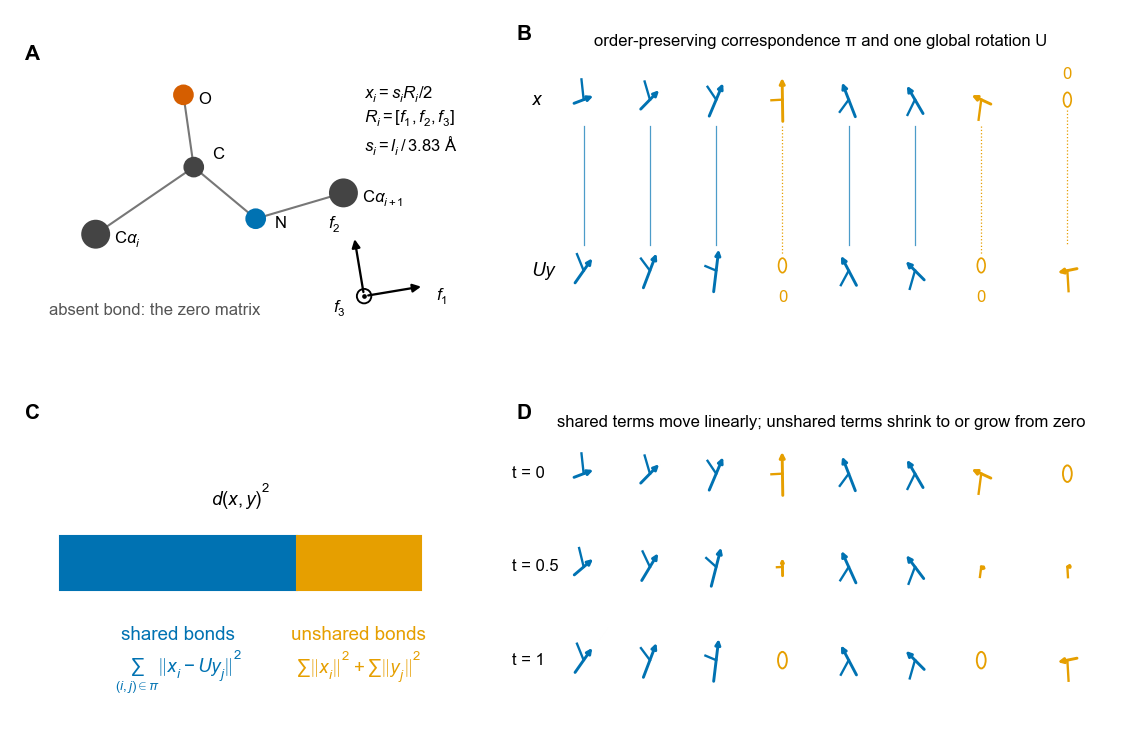
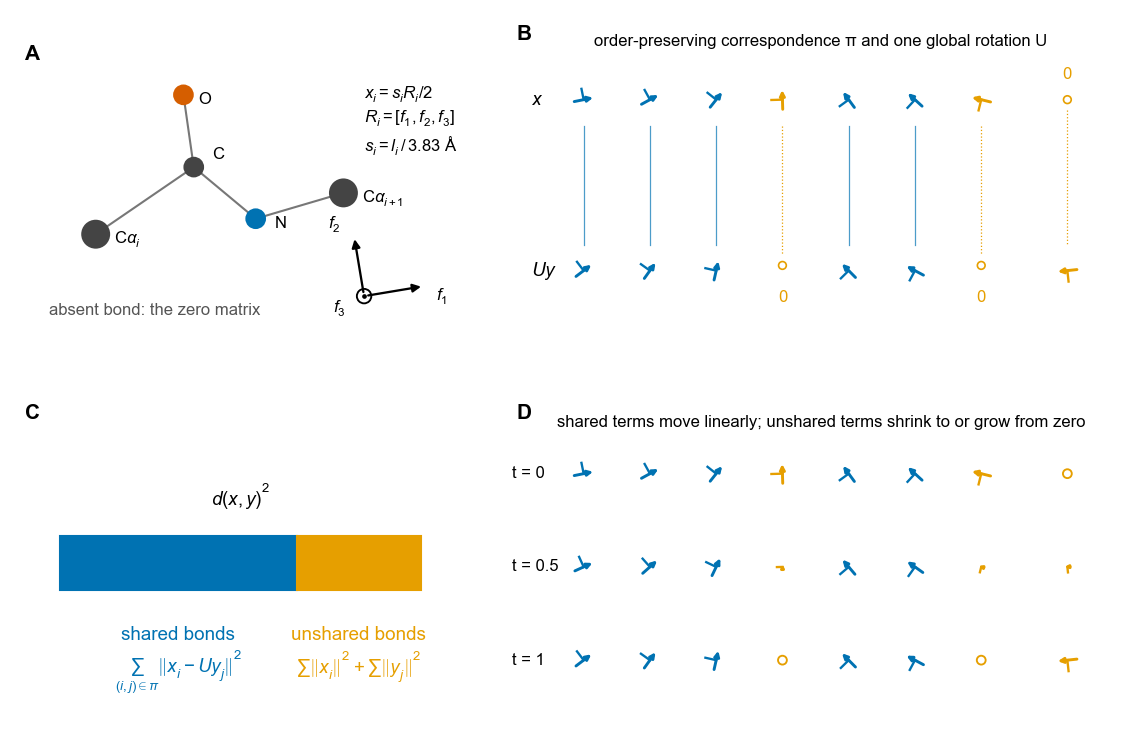
Docs: README Fig 1 caption = the paper's (and the redrawn figure); manuscript terms in docstrings (normalized distance D̂, intersection of near-optimal alignments, factorial comparison); κ = 1 inside the crossing band; tie ranks; rulers: pseudometric and its metric conditions; no cis distance figure

diff --git a/framedchain/ensemble.py b/framedchain/ensemble.py
@@ -4,11 +4,13 @@ For runs (independent replicates) P_1..P_r and Q_1..Q_s, C = mean distance over 
 distance over pairs of different runs on the same side.
     Δ² = 2C − B_P − B_Q  (= cross energy distance − (floor_P + floor_Q)/2; within-run mean distances cancel)
 Because the energy distance is a symmetric bilinear form in the difference of measures, Δ² is an unbiased estimator of
-the energy distance between the central distributions when runs are independent, whatever the negative type of the
-ground distance (D is not of negative type). What is lost is only the guarantee ℰ_D ≥ 0; on real samples this is
-diagnosed by the positive-eigenvalue fraction η₊ of J D J (eta_plus).
+its population counterpart, defined by the expected frame distribution of one run on each side, when runs are
+independent and identically distributed, whatever the negative type of the ground distance (D is not of negative
+type). What is lost is only the guarantee ℰ_D ≥ 0; on real samples this is diagnosed by the positive-eigenvalue
+fraction η₊ of J D J (eta_plus).
     w̄ = (B_P + B_Q)/2,  ratio = √((C/w̄)² − 1) = √((Δ²/(2w̄) + 1)² − 1)  (the signal-to-noise that follows exactly from cross ÷ within distances)
-ratio = 1 separates the near and far regimes (Δ²/√n = 2(√2 − 1) w̄/√n). The main statistic is Δ²/√n̄.
+ratio = 1 lies between the near and far limits, inside the crossing band of the paper (near: ratio < 0.5; crossing:
+0.5–2; far: ratio > 2); there Δ²/√n = 2(√2 − 1) w̄/√n. The main statistic is Δ²/√n̄.
     Δμ²₂ = (C₂ − (B₂_P + B₂_Q)/2) / number of edges   (C₂, B₂ are means of squared distances; exponent-2 energy statistic, mean shift)
 In aligned (Euclidean) coordinates Δμ²₂ equals the mean shift between run means exactly (the spread terms cancel);
 over D it is the generalization.
@@ -55,7 +57,7 @@ def component_ratio(C, B_P, B_Q, dmu2, n_edges):
 
 
 def regime_boundary(wbar, n_edges):
-    """Δ²/√n at the boundary of the two regimes (ratio = 1): 2(√2 − 1) w̄/√n."""
+    """Δ²/√n at ratio = 1, between the near and far limits (inside the paper's crossing band 0.5–2): 2(√2 − 1) w̄/√n."""
     return float(2 * (np.sqrt(2) - 1) * wbar / np.sqrt(n_edges))
 
 
@@ -165,7 +167,7 @@ def edge_spread_profile(F, idx, iters=3):
 def dynamics_similarity(Fa, Fb, pairs, iters=3):
     """Dynamics similarity r_dyn of two protein ensembles on shared edges: Spearman rank correlation of the spread
     profiles on the paired shared edges pairs (k, 2). Shared edges are the matches of the optimal alignment between the
-    two mean points (π̄). Ties are not split in the ranks."""
+    two mean points (π̄). Tied values receive distinct ranks in sort order (no average ranks), as in the paper's code."""
     pairs = np.asarray(pairs, int).reshape(-1, 2)
     va = edge_spread_profile(Fa, pairs[:, 0], iters)
     vb = edge_spread_profile(Fb, pairs[:, 1], iters)

diff --git a/framedchain/rulers.py b/framedchain/rulers.py
@@ -1,9 +1,12 @@
-"""The ruler family: D_{w,ℓ} with a position term, and the TM-form distance D_TM at fixed d₀.
+"""The rulers module: the distance D_TM at fixed d₀ (the TM-align objective as an edit-distance metric, Theorem 2 of
+the paper) and D_{w,ℓ} (frame terms with a position term; not used in the paper).
 
-Common frame (the general lemma of the paper). If the features of terms a and the distance δ between them are
-invariant under the rigid motions G, the gap cost c is G-invariant, and c(a) ≤ δ(a, b) + c(b), then
+The general lemma of the paper. If the features of terms a and the distance δ between them are invariant under the
+rigid motions G, the gap cost c is G-invariant, and c(a) ≤ δ(a, b) + c(b), then
     D² = min over (order-preserving partial correspondence π, g ∈ G) of Σ_{(i,j)∈π} δ(a_i, g b_j)² + Σ_{unmatched} c²
-is a metric on the quotient (identifying insertion/removal of zero-cost terms and a common g).
+is a pseudometric on the quotient (identifying insertion/removal of zero-cost terms and a common g); it is a metric
+when, in addition, the gap cost vanishes only at the zero term and the minimum over G is attained (for D_TM the
+minimum over translations is attained because the score vanishes at infinite separation).
 
 D_{w,ℓ}. Feature of edge i: (w·x_i, p_i/ℓ) (x_i = s_i R_i/2, p_i the midpoint of the edge); δ is their Euclidean
 distance and c = w‖x‖.
@@ -15,7 +18,7 @@ f(0) = 0, hence a metric); c² = 1/2.
     1 − δ² = 1/(1 + r²) is the TM residue score, so D_TM² = (n + m)/2 − S_TM,  S_TM = max Σ_{(i,j)∈π} 1/(1 + r_ij²).
   At fixed d₀ it is a metric (the objective of TM-align = D_TM at fixed d₀). TM-score adds d₀ = d₀(L), division by a
   length and the 1 − S transform; the non-metric behavior of 1 − TM comes from the shorter-length normalization and the
-  1 − S transform (the TM factorial design of the paper).
+  1 − S transform (the factorial comparison of the paper).
 
 Computation. For a fixed pose (U, t) the correspondence is exact by dynamic programming. For a fixed correspondence
   D_{w,ℓ}: t is the difference of the centroids of the matched midpoints and U is exact from the SVD of the combined
@@ -330,7 +333,7 @@ def wl_cost(x, y, match, U, t, ell, w=1.0, p=None, q=None):
     return c + w * w * float((x[mi] ** 2).sum() + (y[mj] ** 2).sum())
 
 
-# Factorial design of the TM forms: (fixed d₀ / d₀(L)) × (no division / division by L̄ = (n + m)/2) × (square-root distance form / 1 − S form).
+# Factorial comparison of the TM forms: (fixed d₀ / d₀(L)) × (no division / division by L̄ = (n + m)/2) × (square-root distance form / 1 − S form).
 def tm_forms(S, n, m):
     """S_TM (computed at the given d₀) -> the four forms. At fixed d₀, 'sqrt_raw' (D_TM) and 'sqrt_norm' (D_TM/√L̄) are
     metrics (the theorem and the normalized metric of the paper); the linear forms 'lin_raw' and 'lin_norm' are not."""

diff --git a/framedchain/parts.py b/framedchain/parts.py
@@ -7,7 +7,7 @@ alignment breaks such a match: the gap part contains not only insertions and del
 in sequence and are rotated by more than 120° (gap part ≠ number of insertions).
 The split depends on the alignment, so when several alignments are nearly optimal their variation is reported separately.
 
-Mean normalization. D̂ = d / √(‖x‖² + ‖y‖²) is a metric at every length with values in [0, 1] (embedding in the
+Normalized distance. D̂ = d / √(‖x‖² + ‖y‖²) is a metric at every length with values in [0, 1] (embedding in the
 unit sphere of a Hilbert space).
 """
 import numpy as np
@@ -43,7 +43,7 @@ def split_sq_distance(x, y, alignment=None, **kw):
 
 
 def normalized_distance(x, y, d=None, **kw):
-    """Mean-normalized distance D̂ = d / √(‖x‖² + ‖y‖²) ∈ [0, 1]. Without d, the distance is computed (upper bound)."""
+    """Normalized distance D̂ = d / √(‖x‖² + ‖y‖²) ∈ [0, 1]. Without d, the distance is computed (upper bound)."""
     x, y = as_tensor(x), as_tensor(y)
     y = y.to(x)
     if d is None:
@@ -53,8 +53,9 @@ def normalized_distance(x, y, d=None, **kw):
 
 
 def near_optimal_alignments(x, y, eps=0.005, n_random=127, iters=10, seed=0, improve_tol=1e-7):
-    """Nearly optimal correspondences and their intersection (in the paper, the joint gate of the primary and
-    confirmatory sequence-identity tests and the alignment-uncertainty check of S2 Text).
+    """Nearly optimal correspondences and their intersection (in the paper, the intersection of near-optimal
+    alignments in the decision rules of the primary and confirmatory sequence-identity tests, and the
+    alignment-uncertainty check of S2 Text).
     Runs the same computation as align (identity + n_random random starts, alternating correspondence and rotation) on
     one pair x (n, 3, 3), y (m, 3, 3), and collects the starts whose final score satisfies S ≥ (1 − eps) S_max as
     "nearly optimal".

diff --git a/framedchain/__init__.py b/framedchain/__init__.py
@@ -6,9 +6,9 @@ A point is a finite sequence of 3×3 matrices; the terms of a real structure are
 edge i, s_i = l_i / 3.83 Å). Inserting or removing zero matrices, or multiplying every term on the left by the same
 rotation, gives the same point. The distance is the minimum over order-preserving partial correspondences and rotations.
 An ensemble is a distribution on this metric space; W₂ between ensembles is computed by definition (transport). The
-paper's main statistic is the energy statistic Δ²/√n̄ (ensemble). The reduced computation (reduced) and the ruler
-family D_{w,ℓ}, D_TM (rulers, needs numba; `from framedchain import rulers`) are the same computations as the code that
-produced the paper.
+paper's main statistic is the energy statistic Δ²/√n̄ (ensemble). The reduced computation (reduced) and the distance
+D_TM of the TM-align objective (rulers, needs numba; `from framedchain import rulers`; the module also holds D_{w,ℓ},
+which the paper does not use) are the same computations as the code that produced the paper.
 """
 from .geometry import hat, expmap, procrustes, polar, quat_to_mat, mat_to_quat, quat_mul, quat_conj, rotvec_to_quat, random_rotations
 from .frames import L0, CIS_MAX, BREAK_MIN, CAPS, frames_from_backbone, to_coordinates, coordinates_from_backbone, edge_lengths, frames_of, is_real, is_cis, is_break, n_edges, ca_trace, read_pdb_backbone, coordinates_from_pdb

diff --git a/framedchain/frames.py b/framedchain/frames.py
@@ -9,7 +9,7 @@ The first column times 2·l0 is the edge vector, so the Cα positions are recove
 import numpy as np
 
 L0 = 3.83        # mean length of a trans edge (Å), the reference for length ratios
-CIS_MAX = 3.45   # edges shorter than this are cis (cis about 3.09 Å, trans about 3.83 Å, nothing in between)
+CIS_MAX = 3.45   # edges shorter than this are cis (trans about 3.83 Å; cis edges are clearly shorter)
 BREAK_MIN = 4.2  # edges longer than this span a chain break (the criterion of the paper's chain-break check)
 CAPS = ('ACE', 'NME', 'NHE')
 
@@ -66,8 +66,8 @@ def is_cis(x, cis_max=CIS_MAX, l0=L0):
 
 
 def is_break(x, break_min=BREAK_MIN, l0=L0):
-    """Terms whose edge length exceeds break_min (4.2 Å by default). Consecutive Cα are about 3.8 Å (trans) or 3.1 Å (cis)
-    apart, so a longer edge joins residues on either side of a gap in the chain."""
+    """Terms whose edge length exceeds break_min (4.2 Å by default). Consecutive Cα are about 3.8 Å apart (less across a cis
+    peptide), so a longer edge joins residues on either side of a gap in the chain."""
     return edge_lengths(x, l0) > break_min
 
 

diff --git a/tests/test_rulers.py b/tests/test_rulers.py
@@ -1,6 +1,6 @@
-"""Tests of the ruler family (rulers): agreement of computation and definition, the core of the triangle inequality
-(composition of correspondences and poses), and the basic distance as ℓ → ∞.
-Moved from framedchain_wip/tests_stage0/test_rulers.py of the framedchain-paper repository. Skipped without numba."""
+"""Tests of the rulers module (D_TM and D_{w,ℓ}): agreement of computation and definition, the core of the triangle
+inequality (composition of correspondences and poses), and the basic distance as ℓ → ∞.
+Moved from framespace_wip/tests_stage0/test_rulers.py of the framedchain-paper repository. Skipped without numba."""
 import math
 
 import numpy as np

diff --git a/tests/test_paper_methods.py b/tests/test_paper_methods.py
@@ -181,7 +181,7 @@ def test_project_to_real():
     assert np.allclose(np.linalg.norm(P3[:, :, 0], axis=-1) * 2, s)
 
 
-# ---------- matched/gap split and mean normalization ----------
+# ---------- matched/gap split and normalized distance D̂ ----------
 
 def test_split_sq_distance():
     a = chain(20, 51)

diff --git a/README.md b/README.md
@@ -14,16 +14,20 @@ fluctuations can be compared bond by bond.
   <img src="docs/framed_chains.png" width="720" alt="Schematic of framed chains: a bond frame, an order-preserving alignment of two chains of different lengths with zero matrices for unmatched bonds, the split of the squared distance into shared and unshared parts, and a geodesic between the chains">
 </p>
 
-*Framed chains and the edit distance (Fig 1 of the paper).* (A) Each virtual Cα–Cα bond i is represented by
-x<sub>i</sub> = s<sub>i</sub>R<sub>i</sub>/2, the frame [f₁, f₂, f₃] of the bond and its peptide plane scaled by the relative bond length.
-(B) Two chains of different lengths are aligned by an order-preserving correspondence and one global rotation;
-unmatched bonds face zero matrices. (C) The squared distance splits exactly into shared-bond and unshared-bond
-parts. (D) Along the geodesic, shared terms move linearly and unshared terms shrink to or grow from zero.
+**Fig 1. Framed chains and the edit distance.** (A) Each virtual Cα–Cα bond i is represented by x<sub>i</sub> =
+s<sub>i</sub>R<sub>i</sub>/2, the frame [f₁, f₂, f₃] of the bond and its peptide plane scaled by the relative bond
+length (f₃ points out of the page). (B) Two chains of different lengths are aligned by an order-preserving
+correspondence and one global rotation; unmatched bonds face zero matrices. (C) The squared distance splits exactly into
+shared-bond (blue) and unshared-bond (orange) parts. (D) The geodesic between the chains: shared terms move linearly,
+unshared terms shrink to or grow from zero. In (B) and (D), each bond term is drawn in two dimensions as an arrow along
+f₁ with a tick along f₂, both scaled with the term; blue, shared bonds (solid lines join the bonds paired by the
+correspondence); orange, unshared bonds; open circles, zero matrices (in B, marked 0 and joined by a dotted line to the
+unmatched bond that faces each). The lower chain in (B) is drawn after the global rotation U.
 
 The package accompanies the paper *Comparing protein conformational ensembles across sequences and lengths* (submitted). It was called framespace up to version 0.3.3 (same
 computations; see `CHANGELOG.md`).
 
-This package contains (i) the definitions and proven properties of the space, and (ii) the computations and estimators that were fixed and used in the accompanying paper (reduced alignment, energy statistics, shared-edge spread profiles, matched/gap decomposition, and the ruler family D_{w,ℓ}/D_TM). Pre-specified decision rules, statistical tests (bootstrap, partial rank correlation, …), data readers (mdCATH, ATLAS) and research-stage tools that were not fixed (floor-bias fits, mean/spread decompositions, soft correspondences, barycenters) are *not* included; the analysis scripts of the paper live in the companion reproduction repository.
+This package contains (i) the definitions and proven properties of the space, and (ii) the computations and estimators that were fixed and used in the accompanying paper (reduced alignment, energy statistics, shared-edge spread profiles, matched/gap decomposition, and the distance D_TM of the TM-align objective at fixed d₀). Pre-specified decision rules, statistical tests (bootstrap, partial rank correlation, …), data readers (mdCATH, ATLAS) and research-stage tools that were not fixed (floor-bias fits, the column-wise mean/spread decomposition of W₂ in aligned coordinates, soft correspondences, barycenters) are *not* included (the mean-shift and spread terms of κ² used in the paper are those of `component_ratio`); the analysis scripts of the paper live in the companion reproduction repository.
 
 ## What is in the space
 
@@ -41,12 +45,12 @@ This package contains (i) the definitions and proven properties of the space, an
 - **PDB reader.** Residues with N, Cα, C and O; multiple MODELs as a batch; terminal caps (ACE, NME, NHE) removed; first altLoc. Chain breaks are not checked when reading; they appear as long edges, and `is_break` flags edges longer than 4.2 Å (the criterion of the paper).
 
 Fixed in the paper (0.3.x):
-- **Matched and gap parts** (`parts`; the shared-bond and unshared-bond parts of the paper). At the optimal alignment d² splits exactly into a matched part Σ ‖x_i − U y_j‖² and an unmatched (gap) part (norms² of unmatched terms). The gap part contains indels *and* corresponding edges rotated by more than 120°. **Mean-normalized distance** D̂ = d / √(‖x‖² + ‖y‖²) ∈ [0, 1] is a metric at all lengths.
-- **Near-optimal correspondences** (`parts.near_optimal_alignments`). Correspondences of all starts with S ≥ (1 − ε) S_max (ε = 0.005), the number of distinct ones, and their intersection (the joint gate of the paper's primary and confirmatory sequence-identity tests).
+- **Matched and gap parts** (`parts`; the shared-bond and unshared-bond parts of the paper). At the optimal alignment d² splits exactly into a matched part Σ ‖x_i − U y_j‖² and an unmatched (gap) part (norms² of unmatched terms). The gap part contains indels *and* corresponding edges rotated by more than 120°. **Normalized distance** D̂ = d / √(‖x‖² + ‖y‖²) ∈ [0, 1] is a metric at all lengths.
+- **Near-optimal correspondences** (`parts.near_optimal_alignments`). Correspondences of all starts with S ≥ (1 − ε) S_max (ε = 0.005), the number of distinct ones, and their intersection (the intersection of near-optimal alignments in the decision rules of the paper's primary and confirmatory sequence-identity tests).
 - **Reduced computation** (`reduced`). The two ensemble mean points are aligned with 128 starts (rotation U0, correspondence π̄); each sample pair then starts from one rotation R_kᵀ U0 R′_l and the correspondence is restricted to a band around π̄ (half-width 5, or 20 for the pairs of the comparison across sequences with TM-score below 0.3; doubled only for pairs touching the band edge). The banded DP equals the full DP with out-of-band pairs blocked; values are upper bounds. The edge rule is a check, not a guarantee (accuracy was measured against branch-and-bound).
 - **Energy statistics** (`ensemble`). From mean distances between independent runs — C (cross) and B_P, B_Q (between different runs of the same side): Δ² = 2C − B_P − B_Q, w̄ = (B_P + B_Q)/2, ratio = √((C/w̄)² − 1), main statistic Δ²/√n̄, exponent-2 version Δμ²₂ = (C₂ − (B₂_P + B₂_Q)/2)/n_edges. By the bilinear identity Δ² is unbiased whatever the negative type of the ground distance. Estimation is an incomplete U-statistic with 2,000 frame pairs per run pair. Also: the negative-type diagnostic η₊ (positive spectral mass of J D J), the component ratio, the regime boundary, and the aligned-coordinate (Euclidean, fixed correspondence) version `aligned_energy_stats`.
 - **Shared-edge spread profiles** (`ensemble`). Per-edge spread after generalized Procrustes on the shared edges only, the rank correlation of two profiles (dynamics similarity r_dyn), and projection of a mean point onto real terms s·R/2.
-- **Ruler family** (`rulers`, needs numba). D_{w,ℓ} with a position term and the fixed-d₀ TM-type distance D_TM (the TM-align objective is D_TM at fixed d₀), costs by definition, the four TM-score forms, and triangle-violation rates. Values are upper bounds; no certificate.
+- **D_TM** (`rulers`, needs numba). The distance D_TM at fixed d₀ (the TM-align objective as an edit-distance metric on α-carbon positions), costs by definition, the four TM-score forms, and triangle-violation rates; the module also holds D_{w,ℓ} (frame terms with a position term), which the paper does not use. Values are upper bounds; no certificate.
 
 Not included: mapping interior points back to structures (no threshold has been fixed).
 
@@ -109,7 +113,7 @@ w = fc.ensemble_w2(x, y)                        # W₂ between ensembles
 
 # one ensemble cell as in the paper: runs of 100 frames concatenated in EA and EB
 st = fc.ensemble_statistic(EA, EB, n_per_run=100)   # st['D2'], st['D2_sqrt_n'], st['ratio'], st['wbar'], st['dmu2']
-near = fc.near_optimal_alignments(mA, mB)           # near['intersection'] for the joint gate
+near = fc.near_optimal_alignments(mA, mB)           # near['intersection']: matches in every near-optimal alignment
 r_dyn = fc.dynamics_similarity(FA, FB, shared_pairs)
 
 from framedchain import rulers                       # needs numba
@@ -178,7 +182,7 @@ pip install -e .[test,rulers]
 pytest tests
 ```
 
-`tests/test_space.py` checks the definitions and properties on synthetic structures (quaternions, Procrustes, atom ↔ coordinate ↔ Cα round trips, chain-break flags, PDB round trip, invariances, truncation and edge-shrink laws, triangle inequality, shortest geodesic, d_fix as an upper bound, scales, mean point, invariant table, certificate, optimal transport, ensemble W₂). `tests/test_paper_methods.py` checks the paper's computations (banded DP = blocked full DP, reduced computation equals the full computation and is an upper bound, band widening, Δ² = cross energy distance − mean floor for any distance, the ratio identity, Δμ²₂ = run-mean shift in Euclidean coordinates, null vs shifted ensembles, η₊, spread-profile invariance, projection, matched + gap = d², D̂, near-optimal sets, aligned-coordinate statistics). `tests/test_rulers.py` (skipped without numba) checks the ruler family. `tests/test_usage.py` checks the user-facing paths (numpy and mixed inputs, PDB files on disk, batching with zero padding, ensembles of different lengths). 47 tests, about a minute on a laptop CPU.
+`tests/test_space.py` checks the definitions and properties on synthetic structures (quaternions, Procrustes, atom ↔ coordinate ↔ Cα round trips, chain-break flags, PDB round trip, invariances, truncation and edge-shrink laws, triangle inequality, shortest geodesic, d_fix as an upper bound, scales, mean point, invariant table, certificate, optimal transport, ensemble W₂). `tests/test_paper_methods.py` checks the paper's computations (banded DP = blocked full DP, reduced computation equals the full computation and is an upper bound, band widening, Δ² = cross energy distance − mean floor for any distance, the ratio identity, Δμ²₂ = run-mean shift in Euclidean coordinates, null vs shifted ensembles, η₊, spread-profile invariance, projection, matched + gap = d², D̂, near-optimal sets, aligned-coordinate statistics). `tests/test_rulers.py` (skipped without numba) checks the `rulers` module (D_TM and D_{w,ℓ}). `tests/test_usage.py` checks the user-facing paths (numpy and mixed inputs, PDB files on disk, batching with zero padding, ensembles of different lengths). 47 tests, about a minute on a laptop CPU.
 
 ## Relation to the code that produced the paper
 

diff --git a/docs/API.md b/docs/API.md
@@ -50,8 +50,8 @@ Whether each term has the form s·R/2 (s > 0, R a rotation). Zero terms and gene
 
 ### `is_break(x, break_min=4.2, l0=3.83)`
 
-Terms whose edge length exceeds break_min (4.2 Å by default). Consecutive Cα are about 3.8 Å (trans) or 3.1 Å (cis)
-apart, so a longer edge joins residues on either side of a gap in the chain.
+Terms whose edge length exceeds break_min (4.2 Å by default). Consecutive Cα are about 3.8 Å apart (less across a cis
+peptide), so a longer edge joins residues on either side of a gap in the chain.
 
 ### `n_edges(x, eps=1e-12)`
 
@@ -261,7 +261,7 @@ alignment breaks such a match: the gap part contains not only insertions and del
 in sequence and are rotated by more than 120° (gap part ≠ number of insertions).
 The split depends on the alignment, so when several alignments are nearly optimal their variation is reported separately.
 
-Mean normalization. D̂ = d / √(‖x‖² + ‖y‖²) is a metric at every length with values in [0, 1] (embedding in the
+Normalized distance. D̂ = d / √(‖x‖² + ‖y‖²) is a metric at every length with values in [0, 1] (embedding in the
 unit sphere of a Hilbert space).
 
 ### `split_sq_distance(x, y, alignment=None, **kw)`
@@ -273,12 +273,13 @@ Returns dict: d2, matched (matched part), gap (gap part), n_matched (number of m
 
 ### `normalized_distance(x, y, d=None, **kw)`
 
-Mean-normalized distance D̂ = d / √(‖x‖² + ‖y‖²) ∈ [0, 1]. Without d, the distance is computed (upper bound).
+Normalized distance D̂ = d / √(‖x‖² + ‖y‖²) ∈ [0, 1]. Without d, the distance is computed (upper bound).
 
 ### `near_optimal_alignments(x, y, eps=0.005, n_random=127, iters=10, seed=0, improve_tol=1e-07)`
 
-Nearly optimal correspondences and their intersection (in the paper, the joint gate of the primary and
-confirmatory sequence-identity tests and the alignment-uncertainty check of S2 Text).
+Nearly optimal correspondences and their intersection (in the paper, the intersection of near-optimal
+alignments in the decision rules of the primary and confirmatory sequence-identity tests, and the
+alignment-uncertainty check of S2 Text).
 Runs the same computation as align (identity + n_random random starts, alternating correspondence and rotation) on
 one pair x (n, 3, 3), y (m, 3, 3), and collects the starts whose final score satisfies S ≥ (1 − eps) S_max as
 "nearly optimal".
@@ -367,11 +368,13 @@ For runs (independent replicates) P_1..P_r and Q_1..Q_s, C = mean distance over 
 distance over pairs of different runs on the same side.
     Δ² = 2C − B_P − B_Q  (= cross energy distance − (floor_P + floor_Q)/2; within-run mean distances cancel)
 Because the energy distance is a symmetric bilinear form in the difference of measures, Δ² is an unbiased estimator of
-the energy distance between the central distributions when runs are independent, whatever the negative type of the
-ground distance (D is not of negative type). What is lost is only the guarantee ℰ_D ≥ 0; on real samples this is
-diagnosed by the positive-eigenvalue fraction η₊ of J D J (eta_plus).
+its population counterpart, defined by the expected frame distribution of one run on each side, when runs are
+independent and identically distributed, whatever the negative type of the ground distance (D is not of negative
+type). What is lost is only the guarantee ℰ_D ≥ 0; on real samples this is diagnosed by the positive-eigenvalue
+fraction η₊ of J D J (eta_plus).
     w̄ = (B_P + B_Q)/2,  ratio = √((C/w̄)² − 1) = √((Δ²/(2w̄) + 1)² − 1)  (the signal-to-noise that follows exactly from cross ÷ within distances)
-ratio = 1 separates the near and far regimes (Δ²/√n = 2(√2 − 1) w̄/√n). The main statistic is Δ²/√n̄.
+ratio = 1 lies between the near and far limits, inside the crossing band of the paper (near: ratio < 0.5; crossing:
+0.5–2; far: ratio > 2); there Δ²/√n = 2(√2 − 1) w̄/√n. The main statistic is Δ²/√n̄.
     Δμ²₂ = (C₂ − (B₂_P + B₂_Q)/2) / number of edges   (C₂, B₂ are means of squared distances; exponent-2 energy statistic, mean shift)
 In aligned (Euclidean) coordinates Δμ²₂ equals the mean shift between run means exactly (the spread terms cancel);
 over D it is the generalization.
@@ -400,7 +403,7 @@ single-branch assumption hold for that cell.
 
 ### `regime_boundary(wbar, n_edges)`
 
-Δ²/√n at the boundary of the two regimes (ratio = 1): 2(√2 − 1) w̄/√n.
+Δ²/√n at ratio = 1, between the near and far limits (inside the paper's crossing band 0.5–2): 2(√2 − 1) w̄/√n.
 
 ### `frame_pairs(a, b, n_per_run, k=2000, rng=None)`
 
@@ -449,7 +452,7 @@ shared edges for `iters` rounds, then the mean squared scatter around the mean p
 
 Dynamics similarity r_dyn of two protein ensembles on shared edges: Spearman rank correlation of the spread
 profiles on the paired shared edges pairs (k, 2). Shared edges are the matches of the optimal alignment between the
-two mean points (π̄). Ties are not split in the ranks.
+two mean points (π̄). Tied values receive distinct ranks in sort order (no average ranks), as in the paper's code.
 
 ### `aligned_energy_stats(P, Q, n_edges)`
 
@@ -507,12 +510,15 @@ n uniformly random rotations. Random numbers are drawn on the CPU and moved to d
 
 ## `rulers`
 
-The ruler family: D_{w,ℓ} with a position term, and the TM-form distance D_TM at fixed d₀.
+The rulers module: the distance D_TM at fixed d₀ (the TM-align objective as an edit-distance metric, Theorem 2 of
+the paper) and D_{w,ℓ} (frame terms with a position term; not used in the paper).
 
-Common frame (the general lemma of the paper). If the features of terms a and the distance δ between them are
-invariant under the rigid motions G, the gap cost c is G-invariant, and c(a) ≤ δ(a, b) + c(b), then
+The general lemma of the paper. If the features of terms a and the distance δ between them are invariant under the
+rigid motions G, the gap cost c is G-invariant, and c(a) ≤ δ(a, b) + c(b), then
     D² = min over (order-preserving partial correspondence π, g ∈ G) of Σ_{(i,j)∈π} δ(a_i, g b_j)² + Σ_{unmatched} c²
-is a metric on the quotient (identifying insertion/removal of zero-cost terms and a common g).
+is a pseudometric on the quotient (identifying insertion/removal of zero-cost terms and a common g); it is a metric
+when, in addition, the gap cost vanishes only at the zero term and the minimum over G is attained (for D_TM the
+minimum over translations is attained because the score vanishes at infinite separation).
 
 D_{w,ℓ}. Feature of edge i: (w·x_i, p_i/ℓ) (x_i = s_i R_i/2, p_i the midpoint of the edge); δ is their Euclidean
 distance and c = w‖x‖.
@@ -524,7 +530,7 @@ f(0) = 0, hence a metric); c² = 1/2.
     1 − δ² = 1/(1 + r²) is the TM residue score, so D_TM² = (n + m)/2 − S_TM,  S_TM = max Σ_{(i,j)∈π} 1/(1 + r_ij²).
   At fixed d₀ it is a metric (the objective of TM-align = D_TM at fixed d₀). TM-score adds d₀ = d₀(L), division by a
   length and the 1 − S transform; the non-metric behavior of 1 − TM comes from the shorter-length normalization and the
-  1 − S transform (the TM factorial design of the paper).
+  1 − S transform (the factorial comparison of the paper).
 
 Computation. For a fixed pose (U, t) the correspondence is exact by dynamic programming. For a fixed correspondence
   D_{w,ℓ}: t is the difference of the centroids of the matched midpoints and U is exact from the SVD of the combined

diff --git a/CHANGELOG.md b/CHANGELOG.md
@@ -4,6 +4,14 @@ framedchain was called framespace up to version 0.3.3; entries below 0.4.0 use t
 
 ## Unreleased (documentation only)
 
+- Docstrings, comments and the README in the paper's terms, with `docs/API.md` regenerated: the README shows Fig 1 as
+  redrawn for the paper (`docs/framed_chains.png`) with the paper's caption; "normalized distance D̂" for
+  "mean-normalized", "intersection of near-optimal alignments" for "joint gate", "factorial comparison" for "factorial
+  design", the population counterpart of Δ² as in the paper; ratio = 1 lies inside the crossing band, between the near
+  and far limits; the general lemma in `rulers` gives a pseudometric, and a metric under the paper's conditions; tied
+  values in `dynamics_similarity` get distinct ranks in sort order; D_{w,ℓ} is marked as not used in the paper; the
+  cis Cα–Cα distance is no longer quoted; `tests/test_rulers.py` names its source as `framespace_wip/tests_stage0` of
+  framedchain-paper; the date of 0.4.1 is given in UTC (2026-10-27). No code changed.
 - American spelling in two more docstrings ("majorization" in `rulers`, "replicates" in `ensemble`) and
   `docs/API.md` regenerated; the README no longer says the companion repository is to be made public with the paper
   (both repositories become public before the paper is submitted); this file lists sections newest first. No code changed.
@@ -30,7 +38,7 @@ framedchain was called framespace up to version 0.3.3; entries below 0.4.0 use t
   before; file tree `6db30c0` throughout). The full map is in `docs/PROVENANCE.md` of the framedchain-paper repository.
 - The Korean translation of the README (`README.ko.md`) was removed; the README is in English only.
 
-## 0.4.1 (2026-10-28)
+## 0.4.1 (2026-10-27)
 
 - Documentation only: the paper's title, *Comparing protein conformational ensembles across sequences and lengths* (in preparation), and its
   terms (shared-bond and unshared-bond parts) in the README, README.ko and CITATION.cff. No code change.
